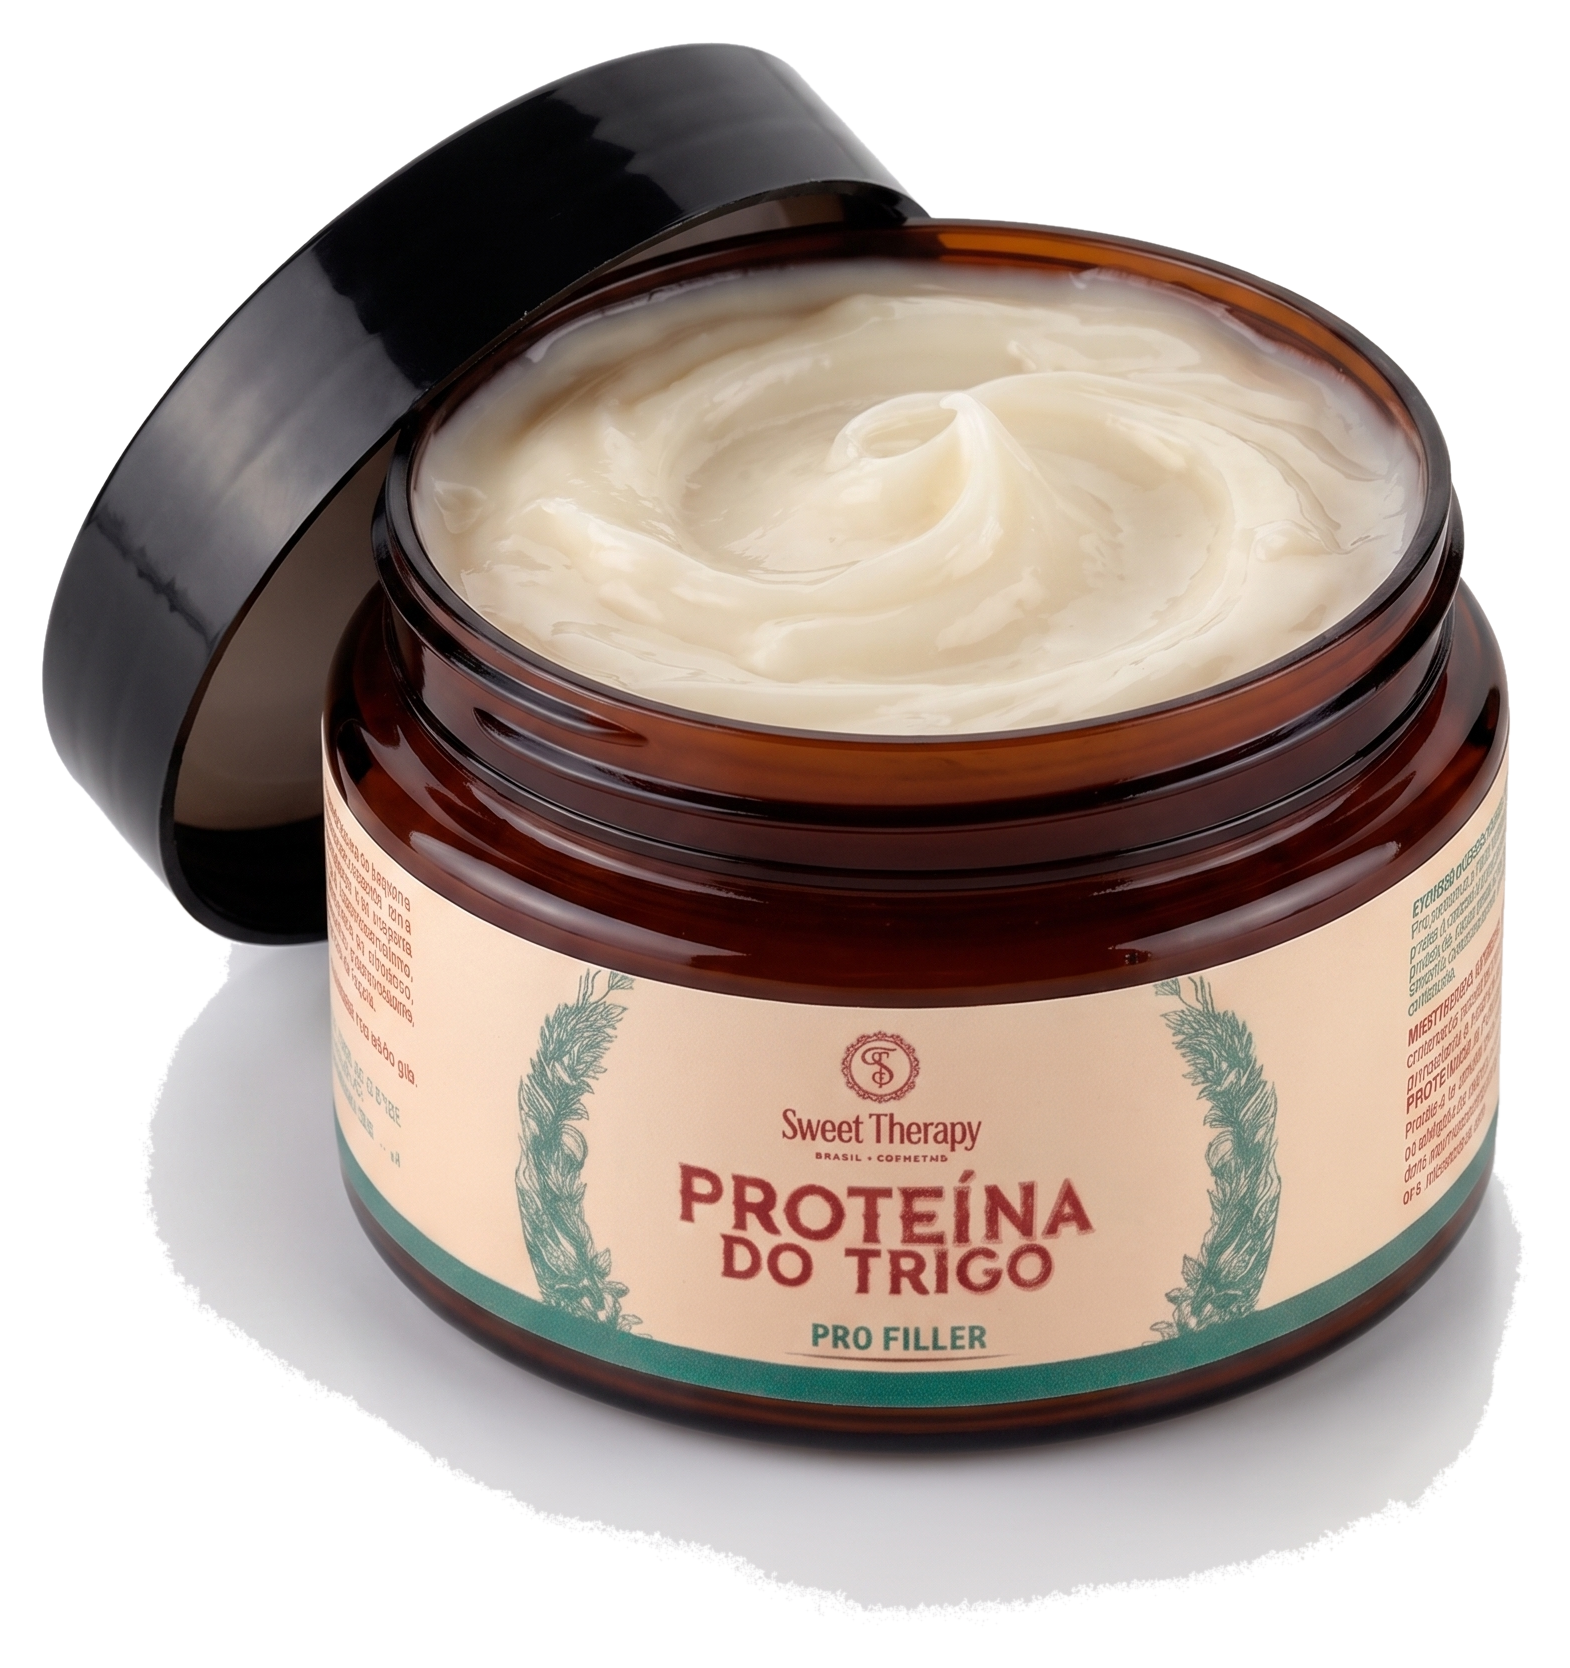
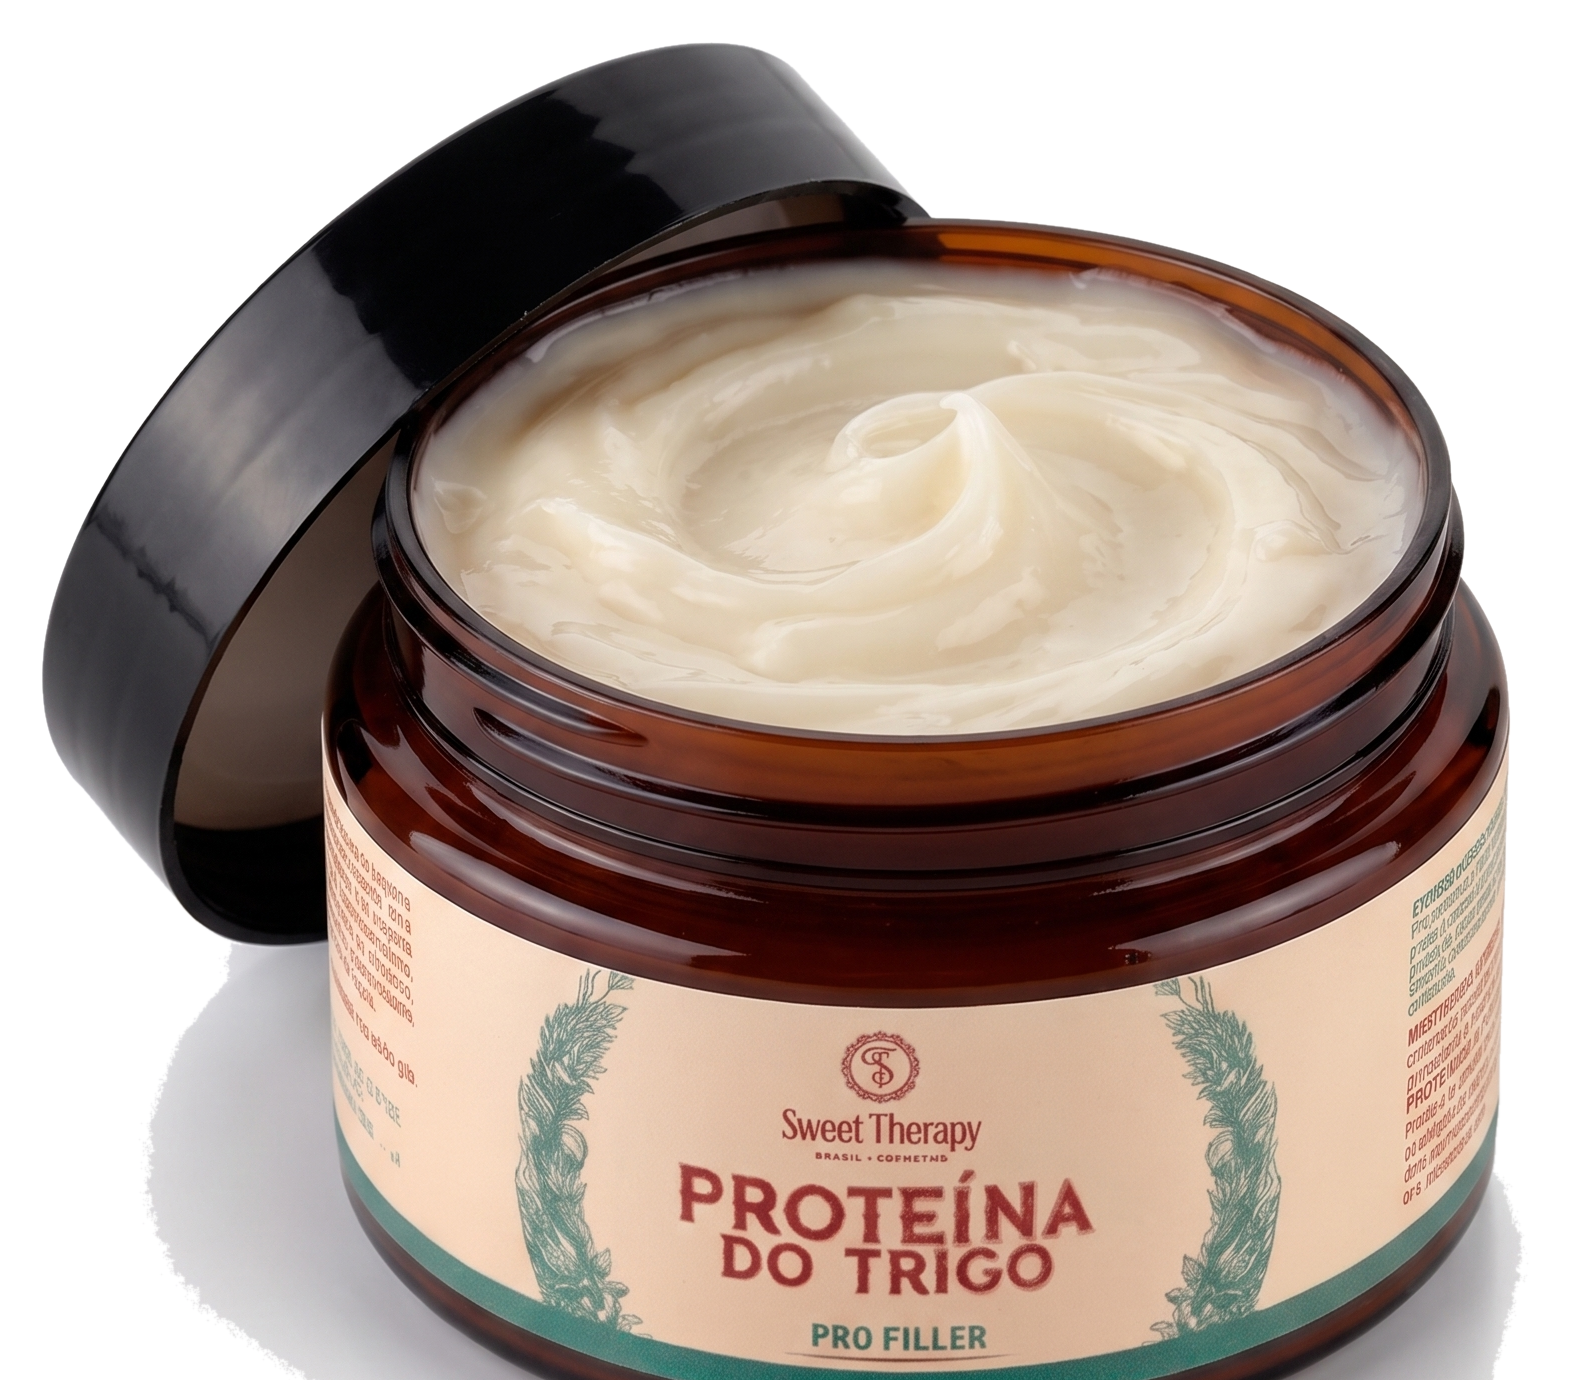
fix: crop empty bottom space from product PNG files and align images near bottom badge

diff --git a/src/components/OfferSelector.tsx b/src/components/OfferSelector.tsx
@@ -275,13 +275,13 @@ export default function OfferSelector({ selectedId, onSelect }: OfferSelectorPro
                 )}
               </div>
 
-              <div className="relative my-2 sm:my-3 flex items-center justify-center min-h-[320px] h-[350px] sm:h-[400px] w-full p-1">
-                <div className="absolute inset-x-4 bottom-2 h-16 rounded-full bg-bordo/10 blur-xl" />
+              <div className="relative my-1 sm:my-2 flex items-center justify-center min-h-[300px] h-[340px] sm:h-[380px] w-full p-1">
+                <div className="absolute inset-x-4 bottom-1 h-14 rounded-full bg-bordo/10 blur-xl" />
                 {protocol.imageUrl ? (
                   <img
                     src={protocol.imageUrl}
                     alt={protocol.name}
-                    className="relative z-10 max-h-full max-w-full object-contain object-center scale-115 sm:scale-110 drop-shadow-[0_20px_32px_rgba(78,20,28,0.25)] transition-transform duration-300 hover:scale-120"
+                    className="relative z-10 max-h-full max-w-full object-contain object-bottom scale-110 sm:scale-105 drop-shadow-[0_20px_32px_rgba(78,20,28,0.25)] transition-transform duration-300 hover:scale-115"
                   />
                 ) : (
                   <div className="relative flex justify-center items-center w-full">
